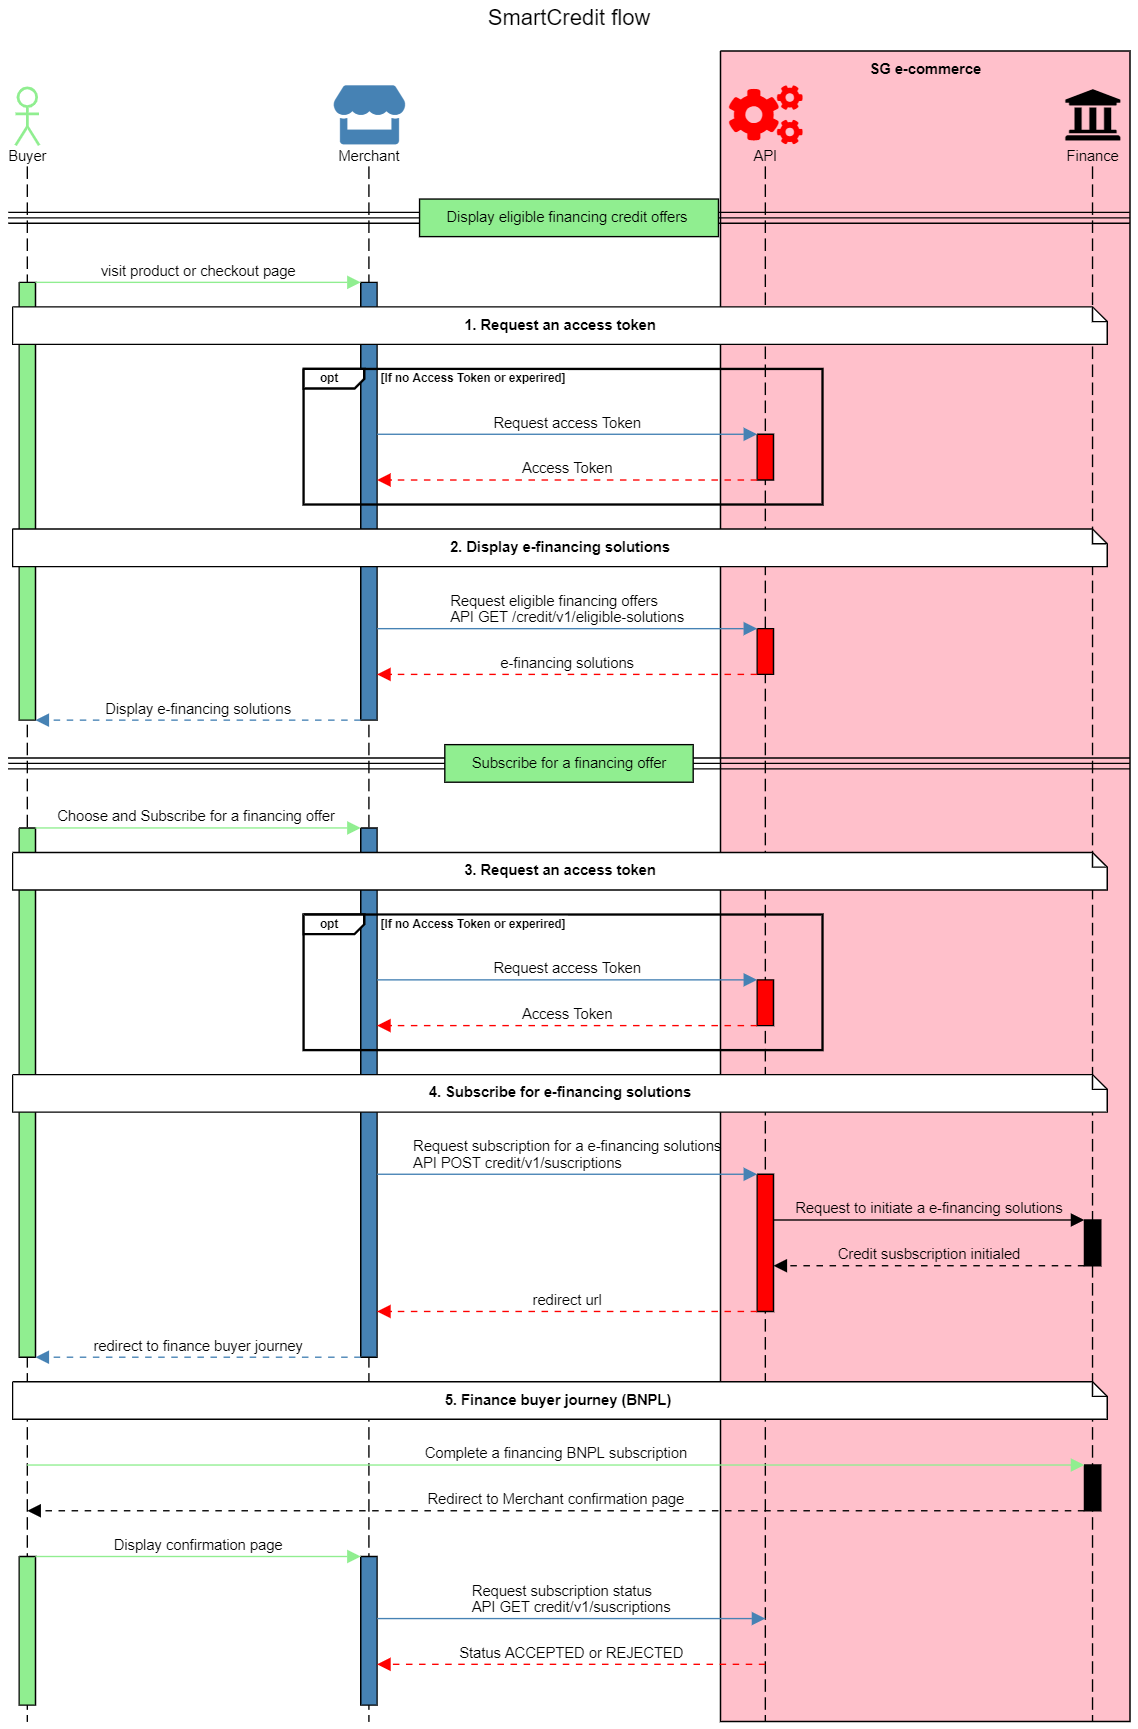
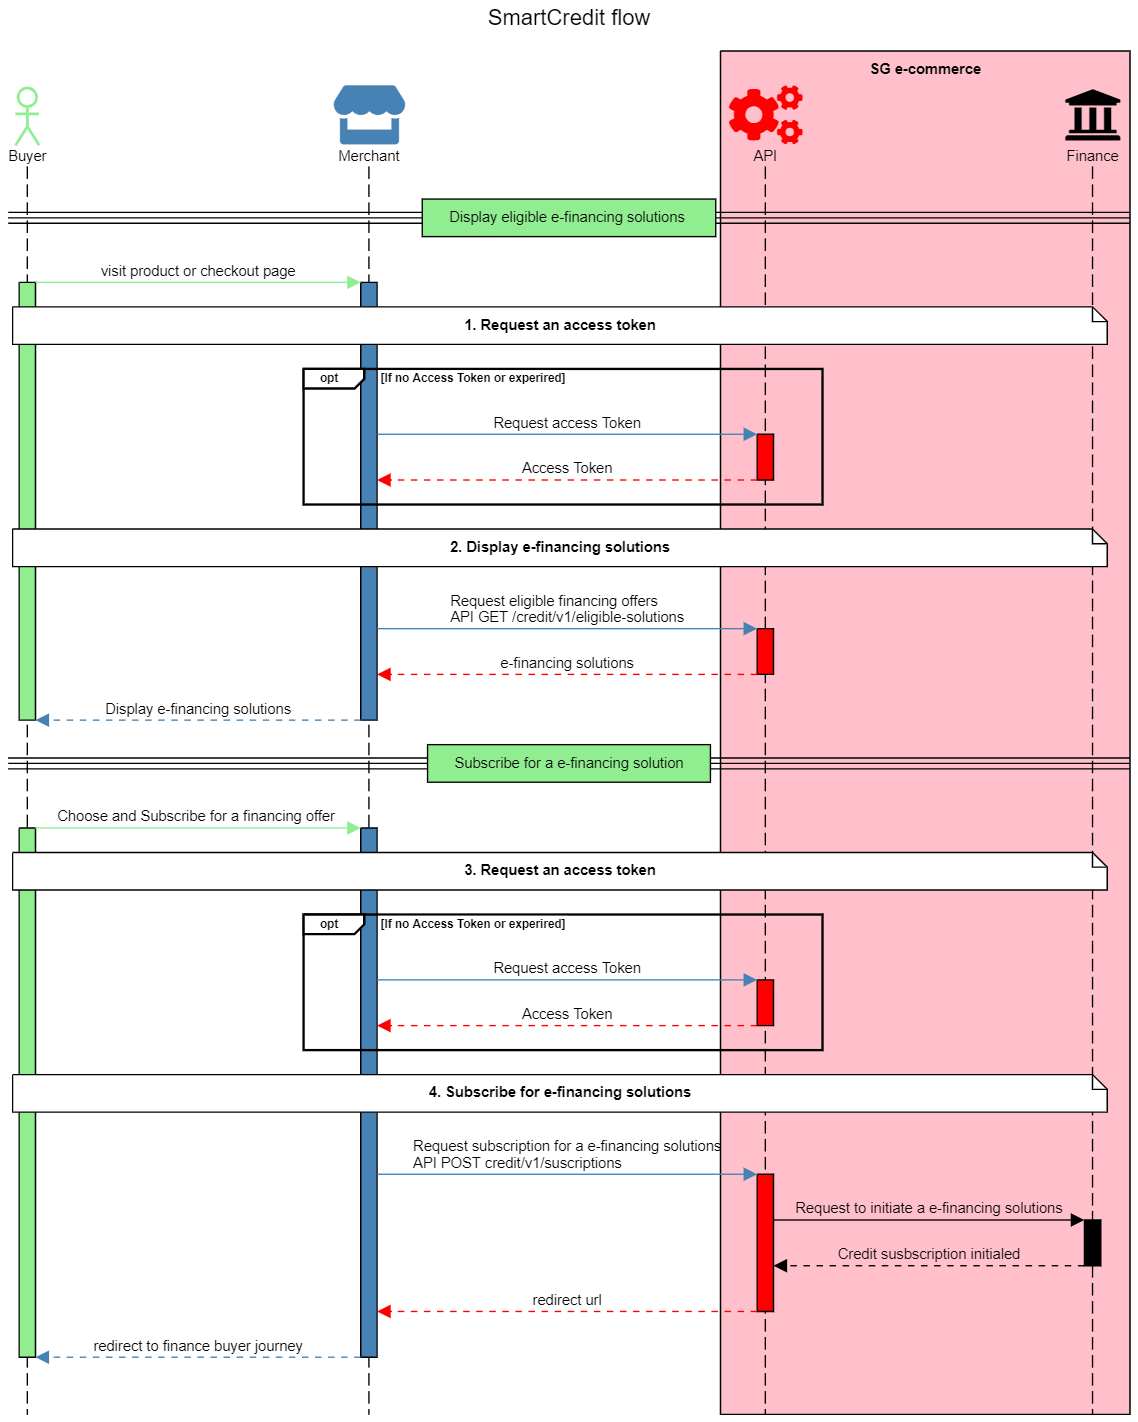
GITBOOK-46: No subject

diff --git a/use-cases/credit/initiate-a-financing-journey.md b/use-cases/credit/initiate-a-financing-journey.md
@@ -12,19 +12,19 @@ Initiate a financing journey is 2 steps process:
 
     Also, It can be used to display the  payment methods during the checkout process.
 
-    There are mandatory input parameters such as "Amount to be financed" and "Country of Buyer" . As a result, you will get all eligible `financingMethodCode` to be used to initiate a suscription.
+    There are mandatory input parameters such as "Amount to be financed" and "Country of Buyer" . As a result, you will get all eligible e-financing solutions to be used to initiate a subscription.
 2.  Subscribe to a dedicated e-financing solutions
 
     After selecting a financing method you can initiate a subscription by calling [`API POST credit/v1/subscriptions`](../../api-reference/credit-api.md#credit-v1-subscriptions-1) &#x20;
 
     The request must be completed with all Buyer identities, billing & delivery addresses and basket content.&#x20;
 
-    As a result, you will get a "subscription Id" and a "redirect Url" to redirect the buyer to start his financing journey that would vary accordingly to the financing method chosen.
+    As a result, you will get a "subscription Id" and a "redirect Url" to redirect the buyer to start his e-financing journey that would vary accordingly to the financing method chosen.
 
 {% hint style="info" %}
 _Select a e-financing solution is mandatory before initiating a subscription._&#x20;
 {% endhint %}
 
-<figure><img src="../../.gitbook/assets/github - smartcredit flow (1).png" alt=""><figcaption><p>Flows: initiate a e-financing solution</p></figcaption></figure>
+<figure><img src="../../.gitbook/assets/github - smartcredit flow.png" alt=""><figcaption><p>Flows: initiate a e-financing solution</p></figcaption></figure>
 
 [^1]: e-financing are 2 kinds "Smart Credit" or "Split Payment". &#x20;
